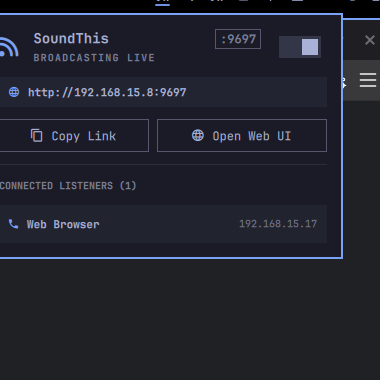
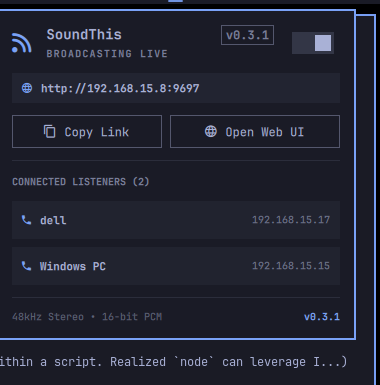
refactor(plugin): remove version from hero header, keep in footer, and refresh screenshots

diff --git a/plugin/Panel.qml b/plugin/Panel.qml
@@ -151,7 +151,6 @@ Panel {
           meta: !root.serverOnline
             ? "Server offline"
             : (root.serverEnabled ? "Broadcasting live" : "Audio sharing disabled")
-          detail: "v" + root.version
           foreground: root.foreground
 
           iconComponent: Component {
